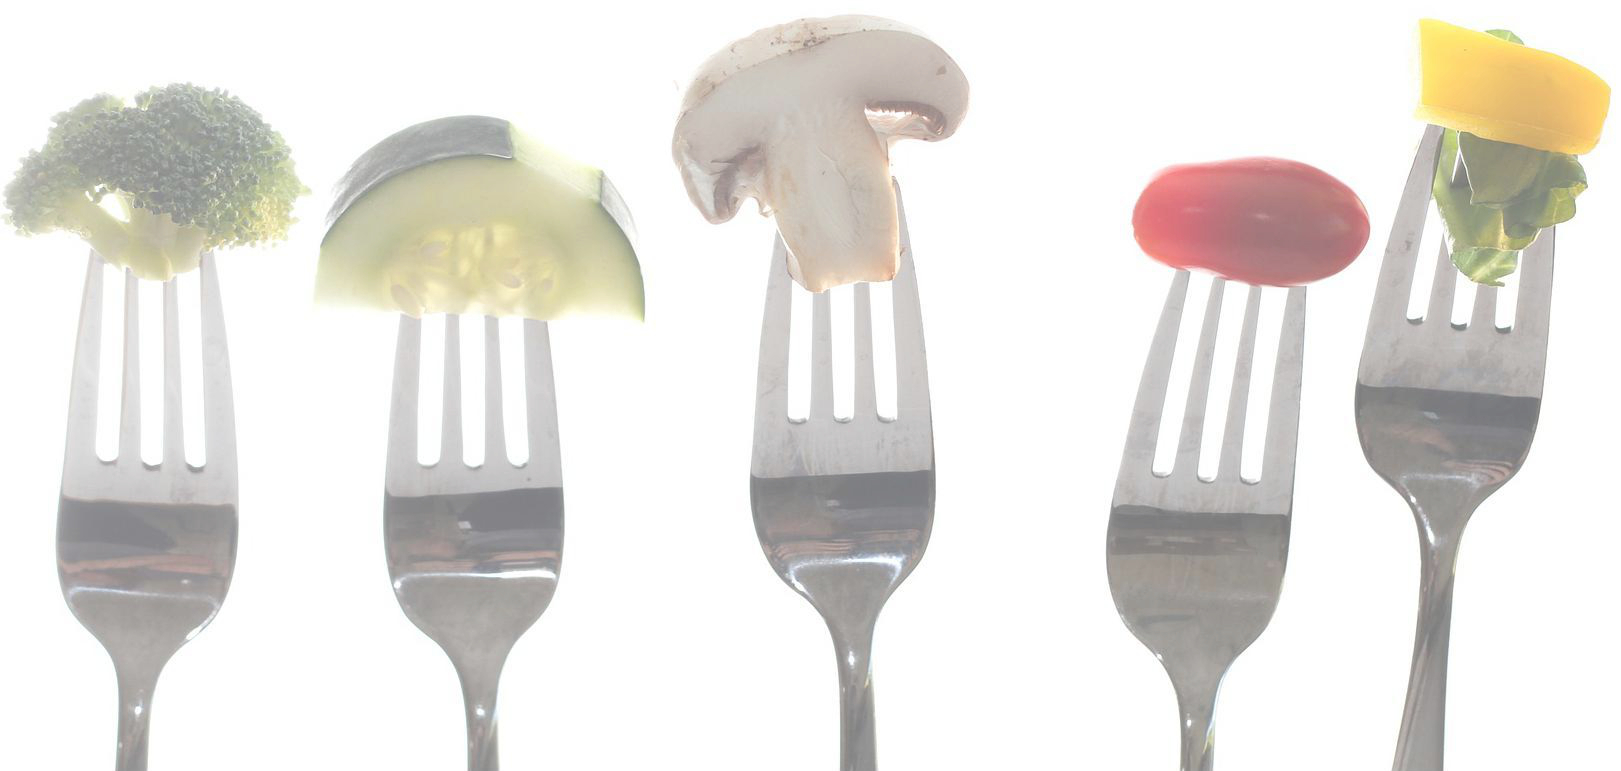
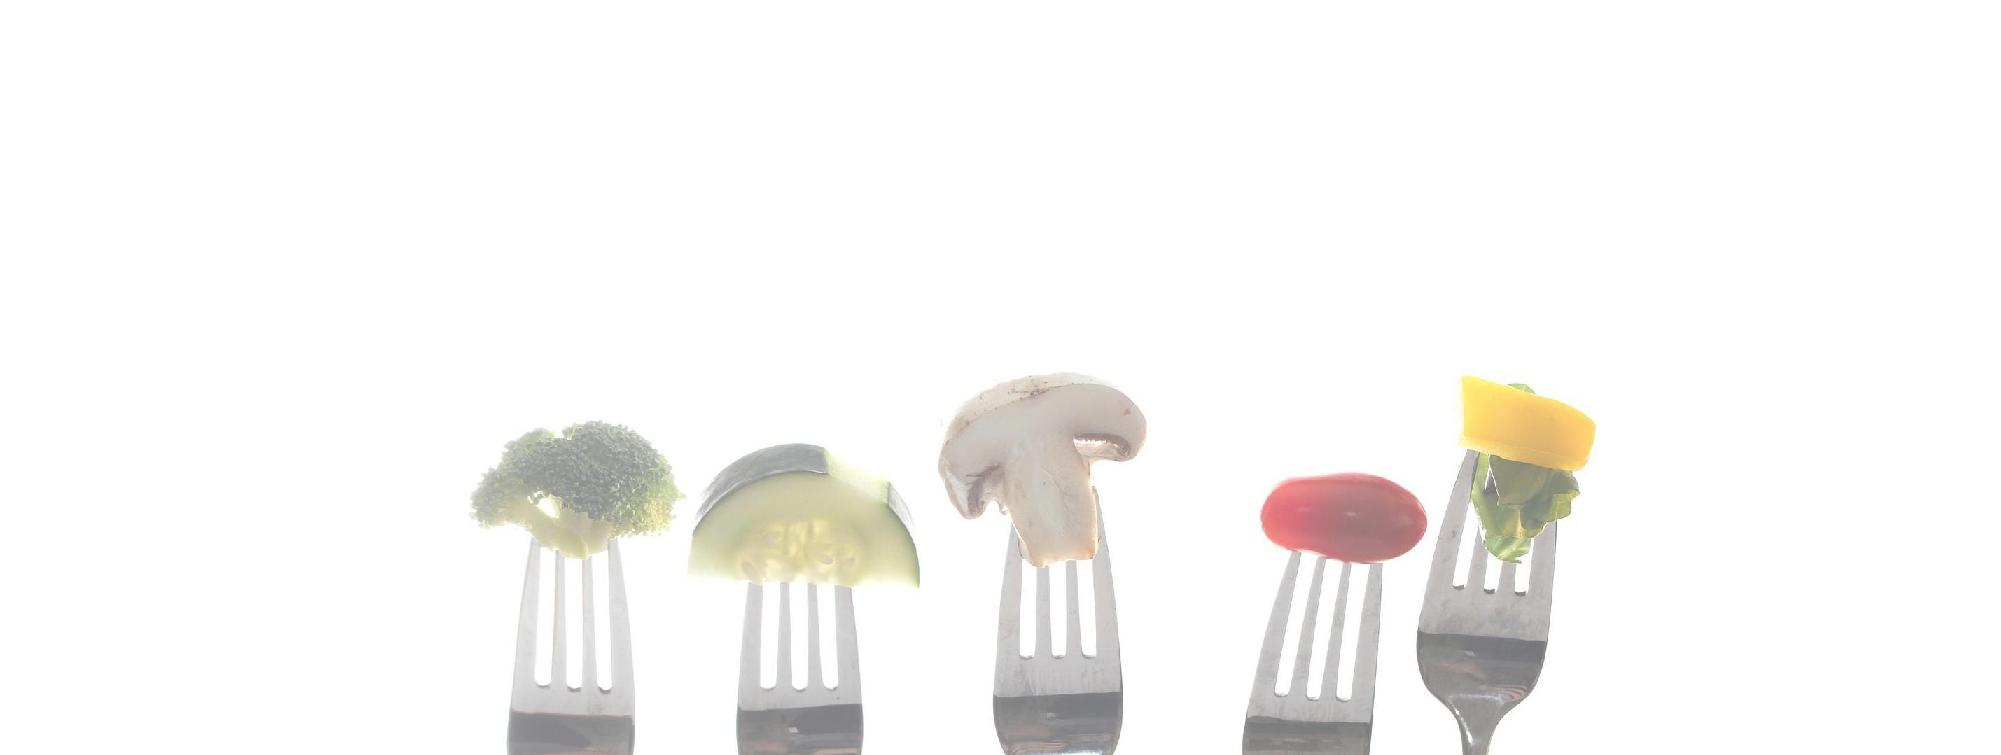
galeria, poprawki tla i obrazkow

diff --git a/style.css b/style.css
@@ -4,11 +4,18 @@
 */
 
 .body{
-    margin: 1%;;
+    margin: 0;
     padding: 0;
     font: sans-serif;
     color: black;
     size: 14px;
+}
+
+footer{
+    position: fixed;
+    top:90%;
+    height:10%;
+    width:100%;
 }
 #menu-container{
     position: fixed;
@@ -17,14 +24,14 @@
     top: 0;
     margin: 0;
     padding: 0;
-    z-index: 999;
-    background-color: white;
+    z-index: 10;
+background-color: white;
 }
 #main-logo{
     background-color: whitesmoke;
     border-radius: 50%;
     position: absolute;
-    top: 16%;
+    top: 21%;
     width: 120px;
     height: 120px;
     margin-left: 10%;
@@ -36,7 +43,9 @@
 }
 #fork{
     position: absolute;
-    top: 15%;
+    background-image: linear-gradient( darkgray 0%, lightblue 100%);
+    border-top: darkgray 5px solid;
+    top: 20%;
     width: 100%;
     height: 20%;
     margin: 0;
@@ -44,11 +53,23 @@
     z-index: 1;
 }
 #fork-image{
-    width: 100%;
+    position: absolute;
+    width: 18%;
+    background-image: url(views/img/fork.png);
+    background-repeat: no-repeat;
+    background-attachment: scroll;
+    background-size: cover; 
+    left: 70%;
+    margin:0;
+    top: 17%;
+    padding: 0;
+    height: 30%;
+    z-index: 2;
+    
 }
 #left-menu{
     float: left;
-    top: 40%;
+    top: 45%;
     position:absolute;
     z-index: 1;
     padding-top: 0;
@@ -57,6 +78,7 @@
     text-align: center;
     padding: 5px;
     margin-left: 2%;
+    border-right: 1px darkgray solid;
 }
 #content{
     position: absolute;
@@ -95,15 +117,22 @@
 }
 #background{
     position: fixed;
+    background-image: url(views/img/background.jpg);
+    background-repeat: no-repeat;
+    background-attachment: fixed;
+    background-position: top;
+    background-size: cover;
     width: 100%;
-    height: 60%;
-    top: 40%;
+    height: 80%;
+    bottom: 0;
     padding: 0;
     opacity: 0.3;
 }
-#background-image{
-    width: 80%;
-    margin-left: 10%;
+.menu-widgets{
+    position: absolute;
+    left:0;
+    width:100%;
+    top:0;
 }
 .menu-item{
     list-style: none;
@@ -165,6 +194,42 @@
 .respond{
     display: none;
 }
+.thumbnail{
+    width: 40%;
+    left: 30%;
+}
+.content-gallery{
+    width: 45%;
+    margin:1%;
+    float: left;
+    background-color: rgba(232, 239, 236, 0.6);
+    padding: 10px;
+    border-top: darkgray solid 1px;
+    border-bottom: darkgray solid 1px;
+    border-radius: 20%;
+}
+.content-gallery:hover{
+    border-top: darkgray solid 3px;
+    z-index: 12;
+    border-bottom: darkgray solid 3px;
+    background-color: rgba(232, 239, 236, 0.9);
+-webkit-animation: cssAnimation 2s 16 ease;
+-moz-animation: cssAnimation 2s 16 ease;
+-o-animation: cssAnimation 2s 16 ease;
+}
+@-webkit-keyframes cssAnimation {
+from { -webkit-transform:scale(1); }
+to { -webkit-transform:scale(1.5); }
+}
+@-moz-keyframes cssAnimation {
+from { -moz-transform:scale(1); }
+to { -moz-transform:scale(1.5); }
+}
+@-o-keyframes cssAnimation {
+from { -o-transform:scale(1)}
+to { -o-transform:scale(1.5); }
+}
+}
 h1{
     font-size: 30px;
     color: darkblue;
@@ -211,21 +276,25 @@ a:visited{
 
 @media all and (max-width: 350px) {
     #main-logo{
-        top: 15%;
-        width: 35px;
-        height: 35px;
-        margin-left: 5%;
+        display: none; 
     }
     #left-menu{
+        display: none;
+    }
+    #fork{
+        top: 23%;
+        height:5%;
+    }
+    #fork-image{
         display: none;
     }
     #content{
         width: 95%;
         left:0;
-        top: 30%;
+        top: 29%;
     }
     #background{
-        top: 60%;
+        top: 30%;
     }
     .submenu-li{
         float: none;
@@ -261,28 +330,29 @@ a:visited{
         font-size: 10px;
         margin: 0;
     }
-    .main-logo-p{
-        line-height: 35px;
-    }
 }
 
 @media all and (max-width: 550px) and (min-width: 351px){
     #main-logo{
-        top: 15%;
-        width: 55px;
-        height: 55px;
-        margin-left: 5%;
+        display: none;
     }
     #left-menu{
         display: none;
     }
     #content{
         width: 95%;
-        top: 32%;
+        top: 26%;
         left:0;
     }
+     #fork{
+        height: 5%;
+        top: 20%;
+    }
+    #fork-image{
+        display: none;
+    }
     #background{
-        top: 60%;
+        top: 30%;
     }
     .submenu-li{
         float: none;
@@ -323,21 +393,27 @@ a:visited{
 
 @media all and (min-width: 551px) and (max-width: 700px){
     #main-logo{
-        top: 15%;
-        width: 70px;
-        height: 70px;
-        margin-left: 5%;
+        display: none;
     }
     #left-menu{
-        width: 20%
+        width: 20%;
+        top:27%;
     }
     #content{
         width: 75%;
         left: 22%;
-        top: 38%;
+        top: 26%;
     }
     #background{
-        top: 60%;
+        top: 30%;
+    }
+    #fork{
+        height: 5%;
+        top:22;
+
+    }
+    #fork-image{
+        display: none;
     }
     .submenu-li{
         float: none;
@@ -376,23 +452,28 @@ a:visited{
     }
 }
 
-@media all and (min-width: 701px) and (max-width: 1000px){
+@media all and (min-width: 701px) and (max-width: 1200px){
     #main-logo{
-        top: 14%;
-        width: 90px;
-        height: 90px;
-        margin-left: 7%;
+        display: none;
     }
     #left-menu{
         width: 25%
+        top: 25%;
     }
     #content{
         width: 70%;
-        left: 22%;
-        top: 38%;
+        left: 27%;
+        top: 24%;
+    }
+    #fork{
+        height: 5%;
+        top: 20%;
+    }
+    #fork-image{
+        display: none;
     }
     #background{
-        top: 60%;
+        top: 30%;
     }
     .content-wrapper{
         width: 100%;

diff --git a/js/click.js b/js/click.js
@@ -1,20 +1,3 @@
-var slideMenu = function() {
-    $(document).ready(function() {
-        $('.submenu').addClass('submenu-li-none');
-        console.log('ok');
-    });
-    $('.menu-li').mouseenter(function() {
-        $(this).children('.submenu').removeClass('submenu-li-none');
-        $(this).children('submenu').addClass('submenu-li');
-        console.log('dupa');
-    });
-    $('.menu-li').mouseleave(function() {
-        $(this).children('.submenu').removeClass('submenu-li');
-        $(this).children('.submenu').addClass('submenu-li-none');
-    });
-};
-
 
 $(function() {
-    slideMenu();
 });
